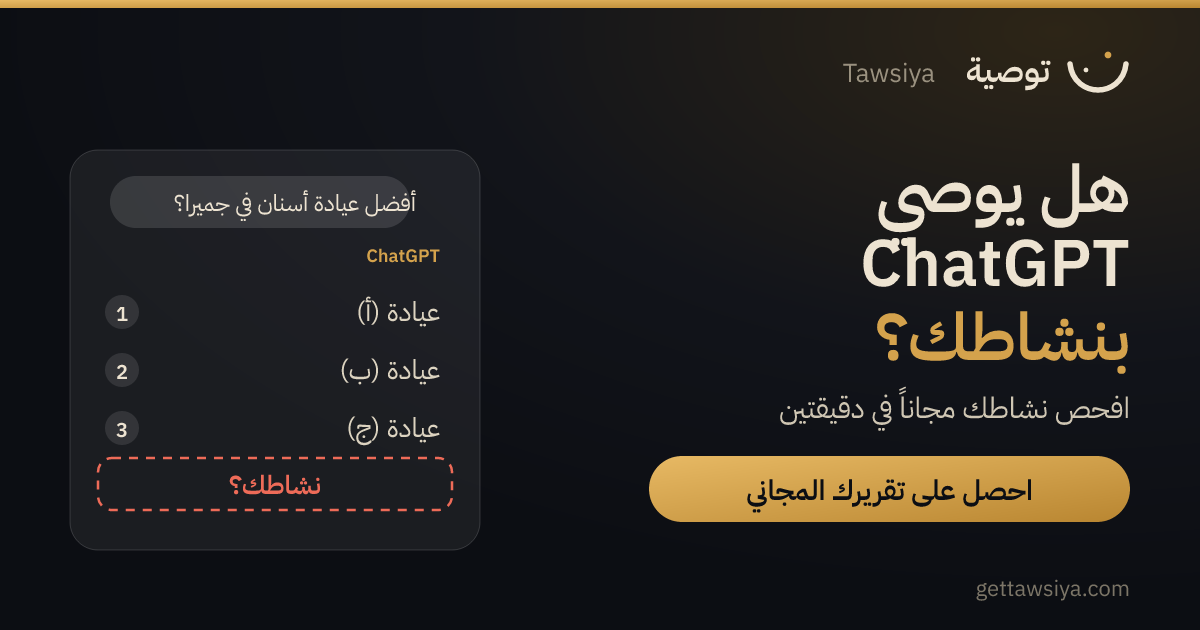
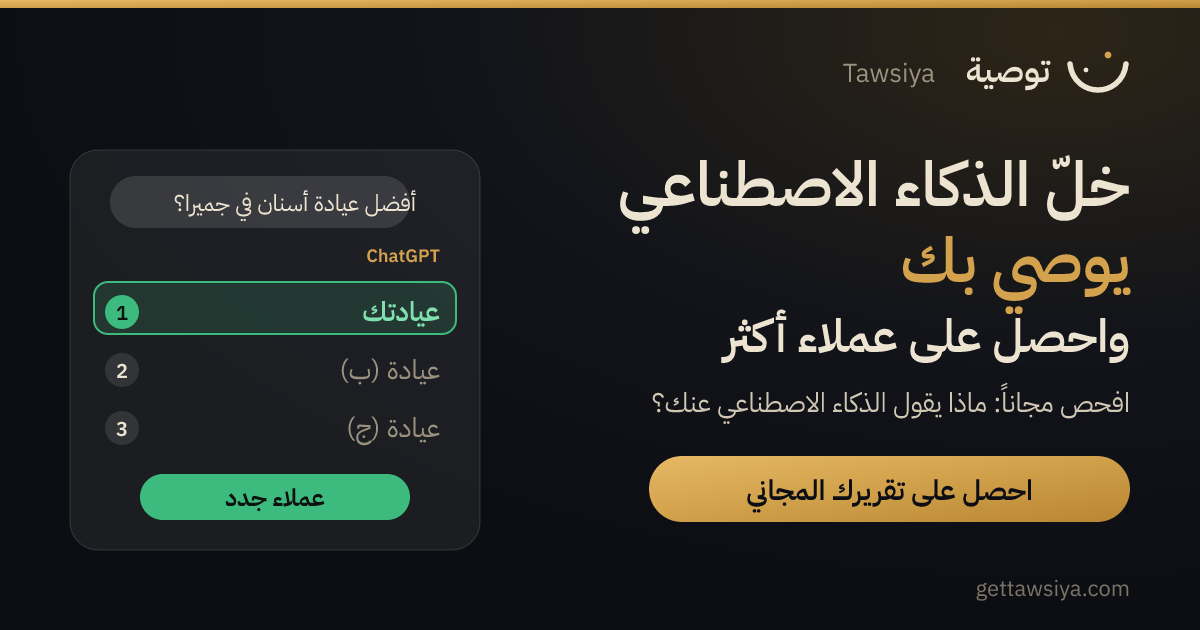
Add files via upload

diff --git a/server/og.js b/server/og.js
@@ -93,30 +93,35 @@ function reportSvg({ lang, name, score, named, total, measured, rival }) {
 function homeSvg(lang) {
   const ar = lang !== 'en';
   const T = ar
-    ? { h1: 'هل يوصي ChatGPT', h2: 'بنشاطك؟', sub: 'افحص نشاطك مجاناً في دقيقتين', cta: 'احصل على تقريرك المجاني', q: 'أفضل عيادة أسنان في جميرا؟', a: ['عيادة (أ)', 'عيادة (ب)', 'عيادة (ج)'], you: 'نشاطك؟', ai: 'ChatGPT' }
-    : { h1: 'Is ChatGPT recommending', h2: 'your business?', sub: 'Free AI visibility check in 2 minutes', cta: 'Get your free report', q: 'Best dentist in JLT?', a: ['Clinic A', 'Clinic B', 'Clinic C'], you: 'Your clinic?', ai: 'ChatGPT' };
+    ? { sub: 'افحص مجاناً: ماذا يقول الذكاء الاصطناعي عنك؟', cta: 'احصل على تقريرك المجاني', q: 'أفضل عيادة أسنان في جميرا؟', a: ['عيادتك', 'عيادة (ب)', 'عيادة (ج)'], badge: 'عملاء جدد', ai: 'ChatGPT' }
+    : { sub: 'Free check: see what ChatGPT says about you', cta: 'Get my free report', q: 'Best dentist in JLT?', a: ['Your clinic', 'Clinic B', 'Clinic C'], badge: 'New clients', ai: 'ChatGPT' };
   const x = ar ? 1130 : 70, anchor = ar ? 'end' : 'start';
   const cardX = ar ? 70 : 720, cardW = 410;
-  const rows = T.a.map((t, i) => `<g><circle cx="${cardX + 52}" cy="${312 + i * 58}" r="17" fill="#FFFFFF" fill-opacity="0.10"/><text x="${cardX + 52}" y="${321 + i * 58}" text-anchor="middle" font-family="${BOLD}" font-size="20" fill="${CREAM}">${i + 1}</text>
-    <text x="${ar ? cardX + cardW - 40 : cardX + 86}" y="${321 + i * 58}" text-anchor="${ar ? 'end' : 'start'}" font-family="${BODY}" font-size="27" fill="#DCD3C0">${esc(t)}</text></g>`).join('');
-  const youY = 312 + 3 * 58;
+  const rows = T.a.map((t, i) => {
+    const me = i === 0, y = 312 + i * 58;
+    return (me ? `<rect x="${cardX + 24}" y="${y - 30}" width="${cardW - 48}" height="52" rx="14" fill="#3DBB7E" fill-opacity="0.16" stroke="#3DBB7E" stroke-width="2"/>` : '') +
+    `<circle cx="${cardX + 52}" cy="${y}" r="17" fill="${me ? '#3DBB7E' : '#FFFFFF'}" fill-opacity="${me ? 1 : 0.10}"/><text x="${cardX + 52}" y="${y + 8}" text-anchor="middle" font-family="${BOLD}" font-size="20" fill="${me ? '#0D1210' : CREAM}">${i + 1}</text>
+    <text x="${ar ? cardX + cardW - 40 : cardX + 86}" y="${y + 9}" text-anchor="${ar ? 'end' : 'start'}" font-family="${me ? BOLD : BODY}" font-size="27" fill="${me ? '#7FE0AE' : '#9A917F'}">${esc(t)}</text>`;
+  }).join('');
+  const bx = ar ? cardX + 40 : cardX + cardW - 40;
   return `<svg xmlns="http://www.w3.org/2000/svg" width="1200" height="630" viewBox="0 0 1200 630">${defs}${brandRow(ar)}
   ${ar
-    ? `<text x="${x}" y="212" text-anchor="end" font-family="${BOLD}" font-size="66" fill="${CREAM}">هل يوصي</text>
-  <text x="${x}" y="286" text-anchor="end" font-family="${BOLD}" font-size="66" fill="${CREAM}">ChatGPT</text>
-  <text x="${x}" y="360" text-anchor="end" font-family="${BOLD}" font-size="66" fill="${BRASS}">بنشاطك؟</text>
-  <text x="${x}" y="418" text-anchor="end" font-family="${BODY}" font-size="29" fill="#CFC6B3">${esc(T.sub)}</text>`
-    : `<text x="${x}" y="232" text-anchor="start" font-family="${BOLD}" font-size="50" fill="${CREAM}">${esc(T.h1)}</text>
-  <text x="${x}" y="300" text-anchor="start" font-family="${BOLD}" font-size="50" fill="${BRASS}">${esc(T.h2)}</text>
-  <text x="${x}" y="362" text-anchor="start" font-family="${BODY}" font-size="30" fill="#CFC6B3">${esc(T.sub)}</text>`}
-  ${pill(ar, T.cta, ar ? 456 : 438)}
+    ? `<text x="${x}" y="206" text-anchor="end" font-family="${BOLD}" font-size="62" fill="${CREAM}">خلّ الذكاء الاصطناعي</text>
+  <text x="${x}" y="282" text-anchor="end" font-family="${BOLD}" font-size="62" fill="${BRASS}">يوصي بك</text>
+  <text x="${x}" y="352" text-anchor="end" font-family="${BOLD}" font-size="46" fill="${CREAM}">واحصل على عملاء أكثر</text>
+  <text x="${x}" y="412" text-anchor="end" font-family="${BODY}" font-size="27" fill="#CFC6B3">${esc(T.sub)}</text>`
+    : `<text x="${x}" y="214" text-anchor="start" font-family="${BOLD}" font-size="66" fill="${CREAM}">Let AI</text>
+  <text x="${x}" y="286" text-anchor="start" font-family="${BOLD}" font-size="66" fill="${BRASS}">recommend you.</text>
+  <text x="${x}" y="350" text-anchor="start" font-family="${BOLD}" font-size="46" fill="${CREAM}">Get more clients.</text>
+  <text x="${x}" y="406" text-anchor="start" font-family="${BODY}" font-size="27" fill="#CFC6B3">${esc(T.sub)}</text>`}
+  ${pill(ar, T.cta, ar ? 456 : 440)}
   <g><rect x="${cardX}" y="150" width="${cardW}" height="400" rx="28" fill="#FFFFFF" fill-opacity="0.06" stroke="#FFFFFF" stroke-opacity="0.14"/>
   <rect x="${ar ? cardX + 40 : cardX + 70}" y="176" width="${cardW - 110}" height="52" rx="26" fill="#FFFFFF" fill-opacity="0.12"/>
   <text x="${ar ? cardX + cardW - 64 : cardX + 96}" y="211" text-anchor="${ar ? 'end' : 'start'}" font-family="${BODY}" font-size="23" fill="${CREAM}">${esc(T.q)}</text>
   <text x="${ar ? cardX + cardW - 40 : cardX + 40}" y="262" text-anchor="${ar ? 'end' : 'start'}" font-family="${BOLD}" font-size="18" letter-spacing="${ar ? 0 : 2}" fill="${BRASS}">${esc(T.ai)}</text>
   ${rows}
-  <rect x="${cardX + 28}" y="${youY - 28}" width="${cardW - 56}" height="52" rx="14" fill="none" stroke="#EE6B58" stroke-width="2.5" stroke-dasharray="9 8"/>
-  <text x="${cardX + cardW / 2}" y="${youY + 8}" text-anchor="middle" font-family="${BOLD}" font-size="26" fill="#EE6B58">${esc(T.you)}</text></g>
+  <rect x="${cardX + 70}" y="${312 + 3 * 58 - 12}" width="${cardW - 140}" height="46" rx="23" fill="#3DBB7E"/>
+  <text x="${cardX + cardW / 2}" y="${312 + 3 * 58 + 20}" text-anchor="middle" font-family="${BOLD}" font-size="24" fill="#0D1210">${ar ? '' : '+ '}${esc(T.badge)}</text></g>
   <text x="${ar ? 1130 : 70}" y="596" text-anchor="${anchor}" font-family="${BODY}" font-size="22" fill="#7C7567">gettawsiya.com</text></svg>`;
 }
 

diff --git a/site/index.html b/site/index.html
@@ -15,19 +15,19 @@
 <meta name="theme-color" content="#F4EEE3" media="(prefers-color-scheme: light)">
 <meta property="og:type" content="website">
 <meta property="og:site_name" content="توصية">
-<meta property="og:title" content="توصية | هل يوصي الذكاء الاصطناعي بنشاطك؟">
-<meta property="og:description" content="تقرير مجاني عن ظهورك في الذكاء الاصطناعي للأنشطة في الإمارات: درجتك من 100، وماذا يقول كل مساعد عنك، وما الذي يجب إصلاحه. متابعة أسبوعية من 199 درهماً شهرياً.">
+<meta property="og:title" content="خلّ الذكاء الاصطناعي يوصي بك واحصل على عملاء أكثر | توصية">
+<meta property="og:description" content="افحص مجاناً ماذا يقول ChatGPT وGemini وClaude عن نشاطك، ودرجتك من 100، وكيف يوصون بك. اضغط واحصل على تقريرك.">
 <meta property="og:url" content="https://gettawsiya.com/">
 <meta property="og:locale" content="ar_AE">
 <meta property="og:locale:alternate" content="en_AE">
-<meta property="og:image" content="https://gettawsiya.com/assets/img/og-ar.png?v=2">
+<meta property="og:image" content="https://gettawsiya.com/assets/img/og-ar.png?v=3">
 <meta property="og:image:width" content="1200">
 <meta property="og:image:height" content="630">
-<meta property="og:image:alt" content="توصية | هل يوصي الذكاء الاصطناعي بنشاطك؟">
+<meta property="og:image:alt" content="خلّ الذكاء الاصطناعي يوصي بك واحصل على عملاء أكثر | توصية">
 <meta name="twitter:card" content="summary_large_image">
-<meta name="twitter:title" content="توصية | هل يوصي الذكاء الاصطناعي بنشاطك؟">
-<meta name="twitter:description" content="تقرير مجاني عن ظهورك في الذكاء الاصطناعي للأنشطة في الإمارات: درجتك من 100، وماذا يقول كل مساعد عنك، وما الذي يجب إصلاحه. متابعة أسبوعية من 199 درهماً شهرياً.">
-<meta name="twitter:image" content="https://gettawsiya.com/assets/img/og-ar.png?v=2">
+<meta name="twitter:title" content="خلّ الذكاء الاصطناعي يوصي بك واحصل على عملاء أكثر | توصية">
+<meta name="twitter:description" content="افحص مجاناً ماذا يقول ChatGPT وGemini وClaude عن نشاطك، ودرجتك من 100، وكيف يوصون بك. اضغط واحصل على تقريرك.">
+<meta name="twitter:image" content="https://gettawsiya.com/assets/img/og-ar.png?v=3">
 <link rel="icon" href="assets/img/favicon.svg" type="image/svg+xml">
 <link rel="icon" href="assets/img/favicon-32.png" sizes="32x32" type="image/png">
 <link rel="apple-touch-icon" href="assets/img/apple-touch-icon.png">

diff --git a/site/en/index.html b/site/en/index.html
@@ -15,19 +15,19 @@
 <meta name="theme-color" content="#F4EEE3" media="(prefers-color-scheme: light)">
 <meta property="og:type" content="website">
 <meta property="og:site_name" content="Tawsiya">
-<meta property="og:title" content="Tawsiya | Is AI recommending your business?">
-<meta property="og:description" content="Free AI visibility report for UAE businesses: your score out of 100, what each AI says about you, and what to fix. Weekly tracking from AED 199 a month.">
+<meta property="og:title" content="Let AI recommend you. Get more clients. | Tawsiya">
+<meta property="og:description" content="Free check: see what ChatGPT, Gemini and Claude say about your business, your score out of 100, and how to get recommended. Tap to get your report.">
 <meta property="og:url" content="https://gettawsiya.com/en/">
 <meta property="og:locale" content="en_AE">
 <meta property="og:locale:alternate" content="ar_AE">
-<meta property="og:image" content="https://gettawsiya.com/assets/img/og-en.png?v=2">
+<meta property="og:image" content="https://gettawsiya.com/assets/img/og-en.png?v=3">
 <meta property="og:image:width" content="1200">
 <meta property="og:image:height" content="630">
-<meta property="og:image:alt" content="Tawsiya | Is AI recommending your business?">
+<meta property="og:image:alt" content="Let AI recommend you. Get more clients. | Tawsiya">
 <meta name="twitter:card" content="summary_large_image">
-<meta name="twitter:title" content="Tawsiya | Is AI recommending your business?">
-<meta name="twitter:description" content="Free AI visibility report for UAE businesses: your score out of 100, what each AI says about you, and what to fix. Weekly tracking from AED 199 a month.">
-<meta name="twitter:image" content="https://gettawsiya.com/assets/img/og-en.png?v=2">
+<meta name="twitter:title" content="Let AI recommend you. Get more clients. | Tawsiya">
+<meta name="twitter:description" content="Free check: see what ChatGPT, Gemini and Claude say about your business, your score out of 100, and how to get recommended. Tap to get your report.">
+<meta name="twitter:image" content="https://gettawsiya.com/assets/img/og-en.png?v=3">
 <link rel="icon" href="../assets/img/favicon.svg" type="image/svg+xml">
 <link rel="icon" href="../assets/img/favicon-32.png" sizes="32x32" type="image/png">
 <link rel="apple-touch-icon" href="../assets/img/apple-touch-icon.png">

diff --git a/server/test/v9.js b/server/test/v9.js
@@ -85,8 +85,8 @@ const visit = (path, h) => fetch(BASE + path, { headers: Object.assign({ 'User-A
   r = await anon.req('GET', '/admin/'); ok(/id="adm-nav"/.test(r.text) && /admin9\.js/.test(r.text) && !/class="site-footer"/.test(r.text), 'admin page has its own shell, no site footer');
 
   console.log('link previews');
-  r = await anon.req('GET', '/en/'); ok(/og:image" content="[^"]*og-en\.png\?v=2"/.test(r.text), 'home page preview picture (English)');
-  const png = await fetch(BASE + '/assets/img/og-ar.png?v=2'); const pb = Buffer.from(await png.arrayBuffer());
+  r = await anon.req('GET', '/en/'); ok(/og:image" content="[^"]*og-en\.png\?v=3"/.test(r.text), 'home page preview picture (English)');
+  const png = await fetch(BASE + '/assets/img/og-ar.png?v=3'); const pb = Buffer.from(await png.arrayBuffer());
   ok(png.status === 200 && pb.slice(1, 4).toString() === 'PNG' && pb.length < 300 * 1024, 'home preview picture is a PNG under 300 KB (' + (pb.length / 1024 | 0) + ' KB)');
   const pr = (await admin.req('GET', '/api/admin/scans')).json.items.find((x) => x.site === 'pi.test' && x.token && x.status === 'done');
   if (pr) {
